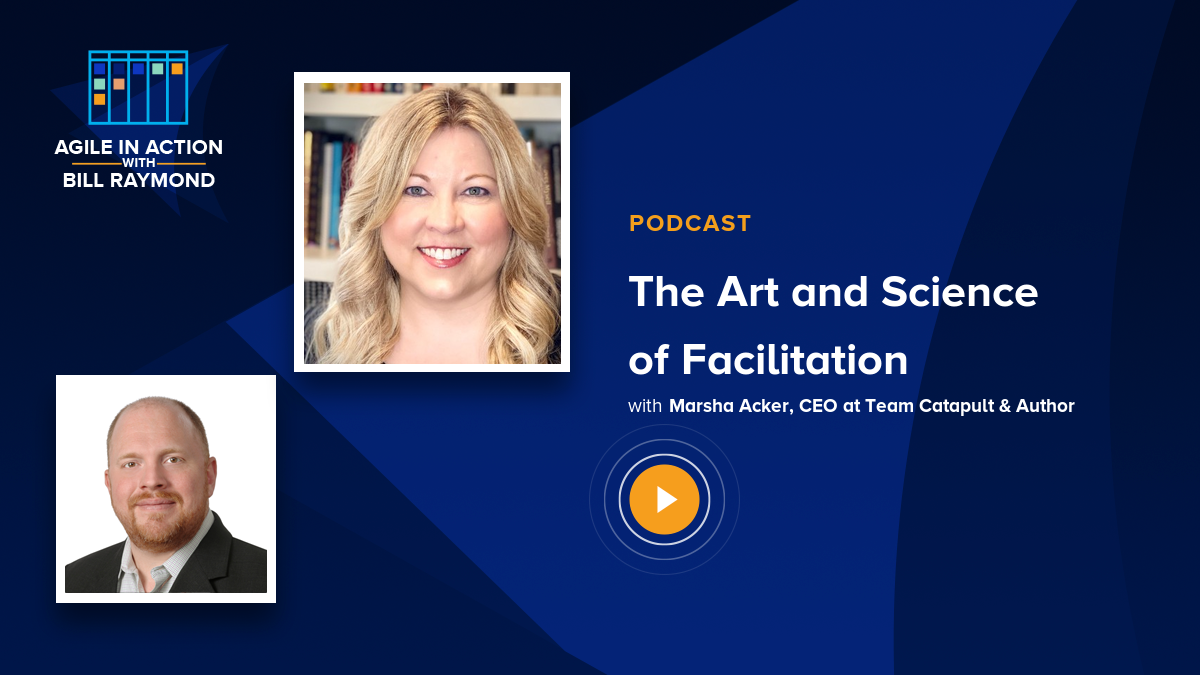
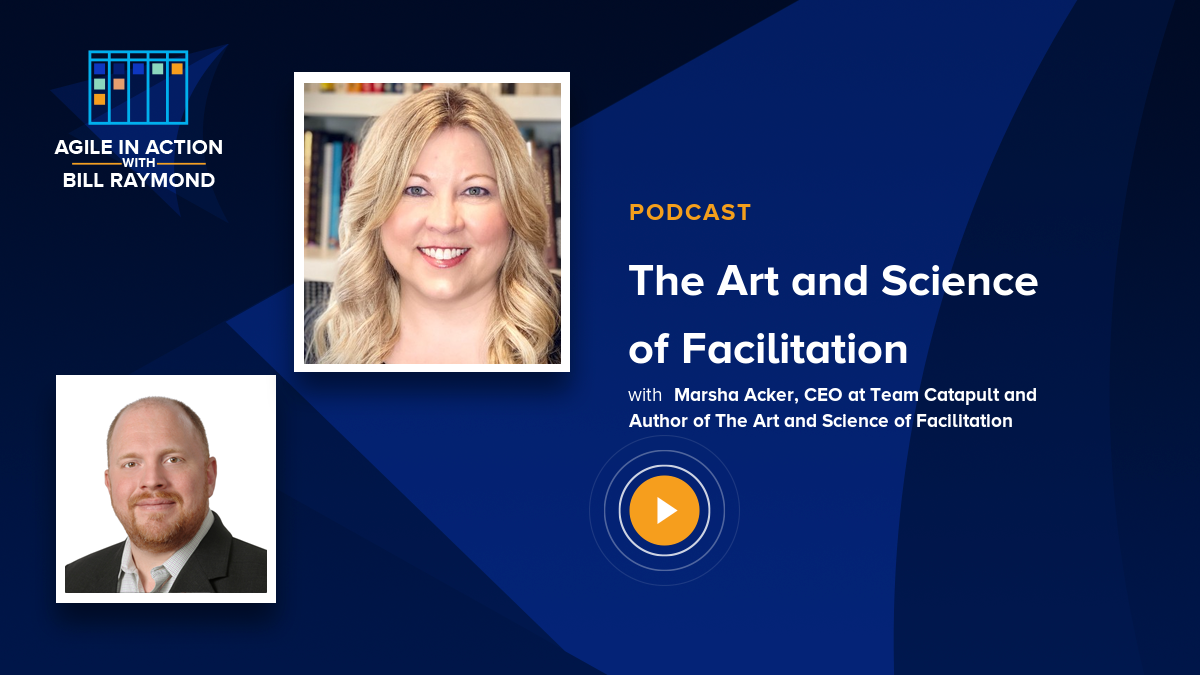
Jekyll build from Action

Changed region(s): [[0.4933, 0.4978, 0.8942, 0.84], [0.5242, 0.3733, 0.8633, 0.4667], [0.5242, 0.28, 0.6475, 0.3422]]

diff --git a/agile-in-action-podcast/2022/04/12/the-art-and-science-of-facilitation.html b/agile-in-action-podcast/2022/04/12/the-art-and-science-of-facilitation.html
@@ -39,7 +39,19 @@
   </section>
 <section class="podcast-post-section">
     <div class="markdown-section">
-        <h2>Listen now</h2>
+        <h2>Listen now</h2><iframe class="podcast-player"
+                style="border: none" 
+                src="//html5-player.libsyn.com/embed/episode/id/22764974/height/90/theme/custom/thumbnail/yes/direction/backward/render-playlist/no/custom-color/f49f1c/"
+                height="90" 
+                width="100%" 
+                scrolling="no"  
+                allowfullscreen 
+                webkitallowfullscreen 
+                mozallowfullscreen 
+                oallowfullscreen 
+                msallowfullscreen>
+            </iframe>
+            <p></p>
         <div class="podcast-badges"><a href="https://podcasts.apple.com/us/podcast/agile-in-action-with-bill-raymond/id1516008955" class="podcast-badge-link" target="_blank">
                 <img class="podcast-badge" src="/assets/logos/badge-apple-podcasts.png" alt="alt">
             </a><a href="https://open.spotify.com/show/6ntGFKgVK1vurtfFBCCwLq?si=raBf7B-ESSuD2jqhdRs9FA" class="podcast-badge-link" target="_blank">
@@ -47,9 +59,13 @@
             </a><a href="https://podcasts.google.com/feed/aHR0cHM6Ly9hZ2lsZWluYWN0aW9uLmxpYnN5bi5jb20vcnNz" class="podcast-badge-link" target="_blank">
                 <img class="podcast-badge" src="/assets/logos/badge-google-podcasts.png" alt="alt">
             </a></div>
-        <h2>The Art and Science of Facilitation</h2>
-<h2>Links</h2><h3>Marsha Acker, CEO at Team Catapult & Author</h3>
-            <ul></ul><h2 id="about-the-agile-in-action-with-bill-raymond-podcast">About the Agile in Action with Bill Raymond podcast</h2>
+        <h2>The Art and Science of Facilitation</h2><p>In today’s podcast, Marsha Acker shares the art and science of facilitation. Marsha shares stories and ideas that will help you run more efficient, outcome-driven meetings.</p>
+<h2>Links</h2><h3> Marsha Acker, CEO at Team Catapult and Author of The Art and Science of Facilitation</h3>
+            <ul><li>
+                    <a href="https://www.amazon.com/Art-Science-Facilitation-Effective-Collaboration/dp/1735655406/ref=asc_df_1735655406/?tag=hyprod-20&linkCode=df0&hvadid=475811913007&hvpos=&hvnetw=g&hvrand=16786788015951684996&hvpone=&hvptwo=&hvqmt=&hvdev=c&hvdvcmdl=&hvlocint=&hvlocphy=9033128&hvtargid=pla-1130990391101&psc=1" target="blank">Book</a>
+                </li><li>
+                    <a href="https://www.linkedin.com/in/marsha-acker-3486a72/" target="blank">LinkedIn</a>
+                </li></ul><h2 id="about-the-agile-in-action-with-bill-raymond-podcast">About the Agile in Action with Bill Raymond podcast</h2>
 
 <p>This business-focused podcast focuses on an audience that is passionate about making positive change in their organizations. The podcast presents interviews with leaders and practitioners who work tirelessly to modernize how teams work.</p>
 

diff --git a/index.html b/index.html
@@ -33,7 +33,7 @@
     </nav>
 </nav>
 </div>
-            <div class="header-featured"><a href="/agile-in-action-podcast/2022/04/05/risk-driven-security-in-agile-software-development.html" class="header-featured-link"><img src="/uploads/2022-04-05-risk-driven-security-in-agile-software-development.png" alt="Risk-driven security in agile software development" class="header-featured-image"></a></div>
+            <div class="header-featured"><a href="/agile-in-action-podcast/2022/04/12/the-art-and-science-of-facilitation.html" class="header-featured-link"><img src="/uploads/2022-04-12-the-art-and-science-of-facilitation.png" alt="The Art and Science of Facilitation" class="header-featured-image"></a></div>
         </div>
     </section>
 
@@ -41,6 +41,23 @@
         
         <div class="guests-card-all-container">
             <div class="guests-card-container">
+                    
+
+
+<div class="guests-card-photos-container">
+        <div class="gcp-background"><img src="/assets/guests-card/logo-background-black-400x400.png" alt="" class="gcp-background-image">
+        </div>
+        
+        <div class="gcp-cards-1">
+            
+            <img src="/uploads/ionitia.jpg" alt="" class="gcp-card"></div>
+        <div class="gcp-play"><img src="/assets/guests-card/play-circle.png" alt="" class="gcp-play-image">
+        </div>
+    </div><div class="guests-card-title-container"><p class="gct-title"><span><a class="gct-title-href" href="/agile-in-action-podcast/2022/04/05/risk-driven-security-in-agile-software-development.html">Risk-driven security in agile software development</a></span></p>
+    </div><div class="guests-card-guests-container"><p class="gc-guest-text">with Dan Ionita, Consultant and Trainer</p>
+    </div><div class="guests-card-author-container"><img src="/assets/guests-card/bill-raymond-small-circle.png" alt="" class="gca-author-image"><p class="gca-author"><span class="gca-author-name">Bill Raymond</span>
+        <span class="gca-post-date"> - Tuesday, Apr 05, 2022</span></p>
+    </div></div><div class="guests-card-container">
                     
 
 

diff --git a/admin.html b/admin.html
@@ -56,7 +56,7 @@
         <div class="gcp-play"><img src="/assets/guests-card/play-circle.png" alt="" class="gcp-play-image">
         </div>
     </div><div class="guests-card-title-container"><p class="gct-title"><span><a class="gct-title-href" href="/agile-in-action-podcast/2022/04/12/the-art-and-science-of-facilitation.html">The Art and Science of Facilitation</a></span></p>
-    </div><div class="guests-card-guests-container"><p class="gc-guest-text">with Marsha Acker, CEO at Team Catapult & Author</p>
+    </div><div class="guests-card-guests-container"><p class="gc-guest-text">with  Marsha Acker, CEO at Team Catapult and Author of The Art and Science of Facilitation</p>
     </div><div class="guests-card-author-container"><img src="/assets/guests-card/bill-raymond-small-circle.png" alt="" class="gca-author-image"><p class="gca-author"><span class="gca-author-name">Bill Raymond</span>
         <span class="gca-post-date"> - Tuesday, Apr 12, 2022</span></p>
     </div></div><div class="guests-card-container">

diff --git a/404.html b/404.html
@@ -79,7 +79,7 @@
             <div class="feed-card-content"><div class="feed-card-title">
                     <span class="feed-item-title"><a class="feed-item-link" href="/agile-in-action-podcast/2022/04/12/the-art-and-science-of-facilitation.html">The Art and Science of Facilitation</a></span>
                 </div><div class="feed-card-excerpt">
-                    <span class="feed-item-excerpt">.</span>
+                    <span class="feed-item-excerpt">In today’s podcast, Marsha Acker shares the art and science of facilitation.</span>
                 </div>
                 
                 <div class="feed-card-author">

diff --git a/guestphotos.html b/guestphotos.html
@@ -22,7 +22,7 @@
     
     <div class="site-container">
       
-      <h2>Title:The Art and Science of Facilitation</h2># Guests:1<p>Guest:Marsha Acker, CEO at Team Catapult & Author</p>
+      <h2>Title:The Art and Science of Facilitation</h2># Guests:1<p>Guest: Marsha Acker, CEO at Team Catapult and Author of The Art and Science of Facilitation</p>
         <p>Photo:</p>
         <p><img src="/uploads/marsha.jpg" alt=""> </p><h2>Title:Risk-driven security in agile software development</h2># Guests:1<p>Guest:Dan Ionita, Consultant and Trainer</p>
         <p>Photo:</p>
